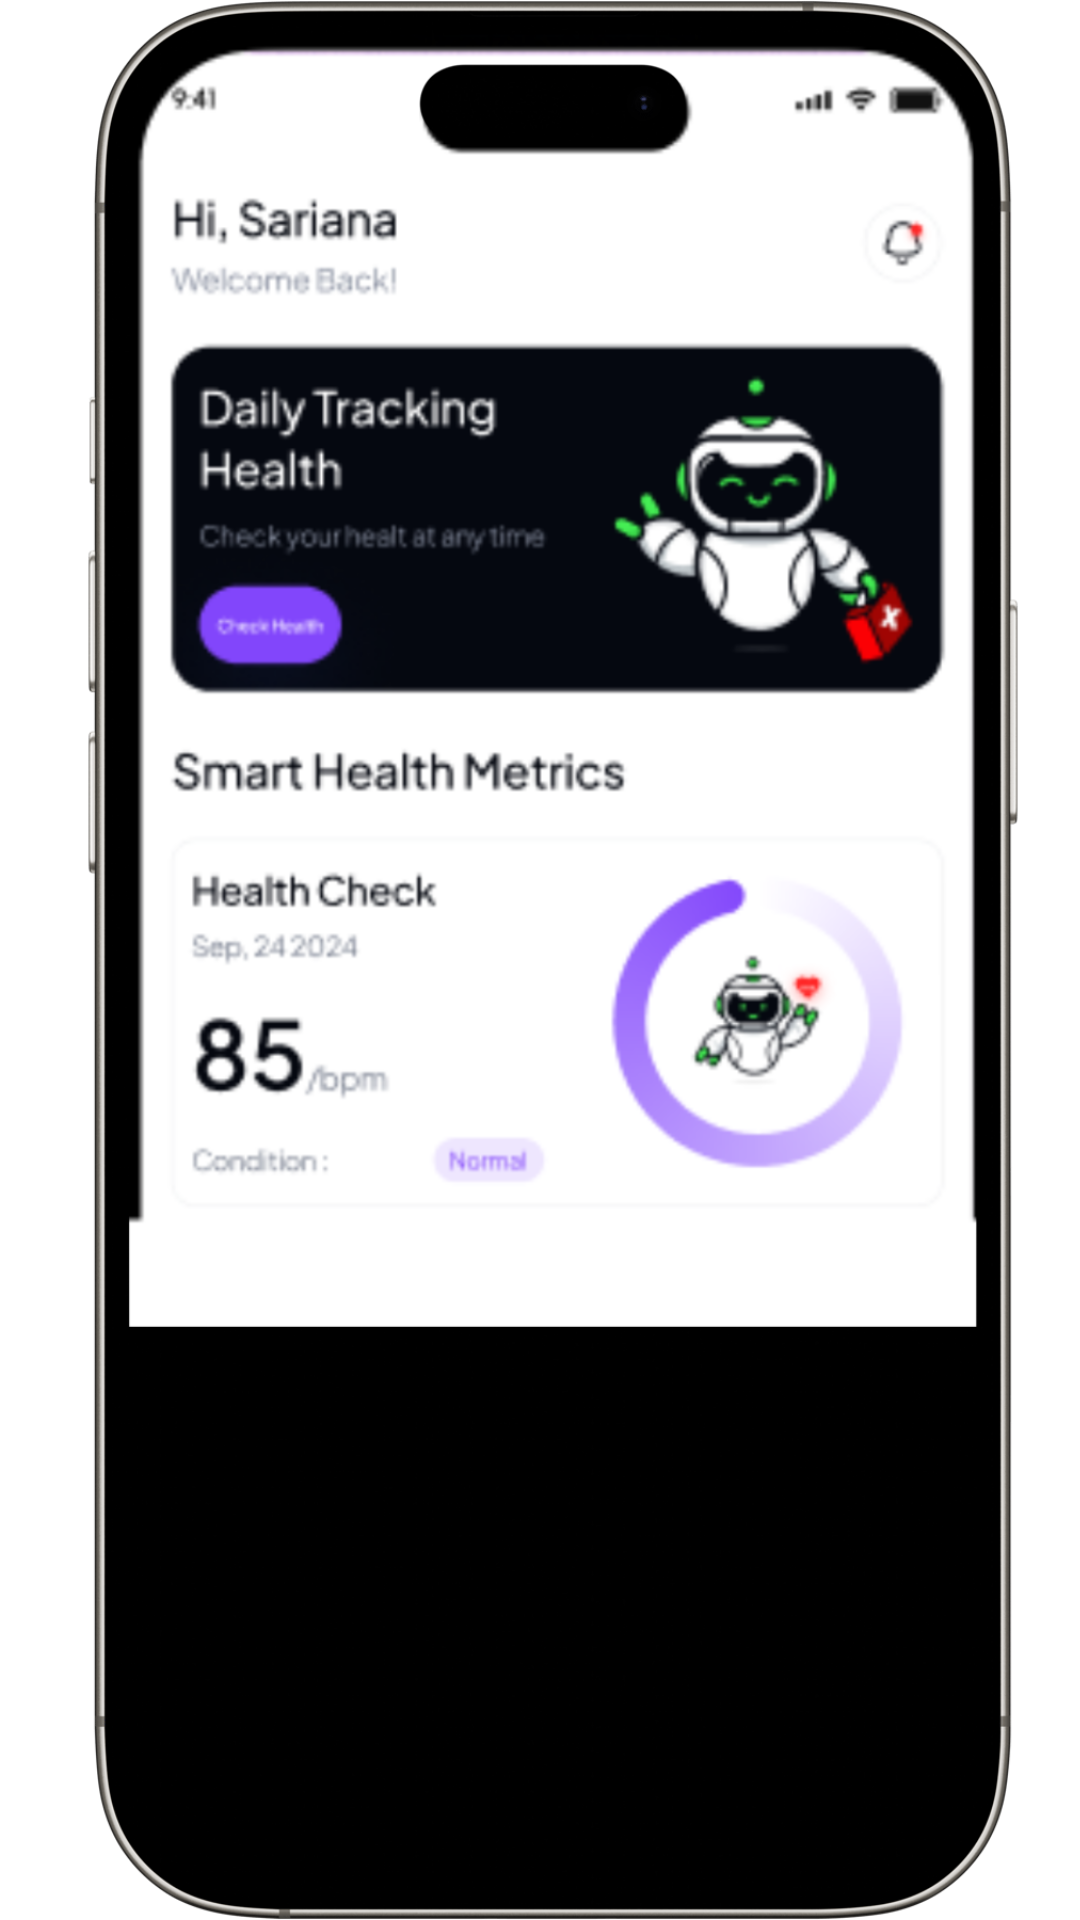
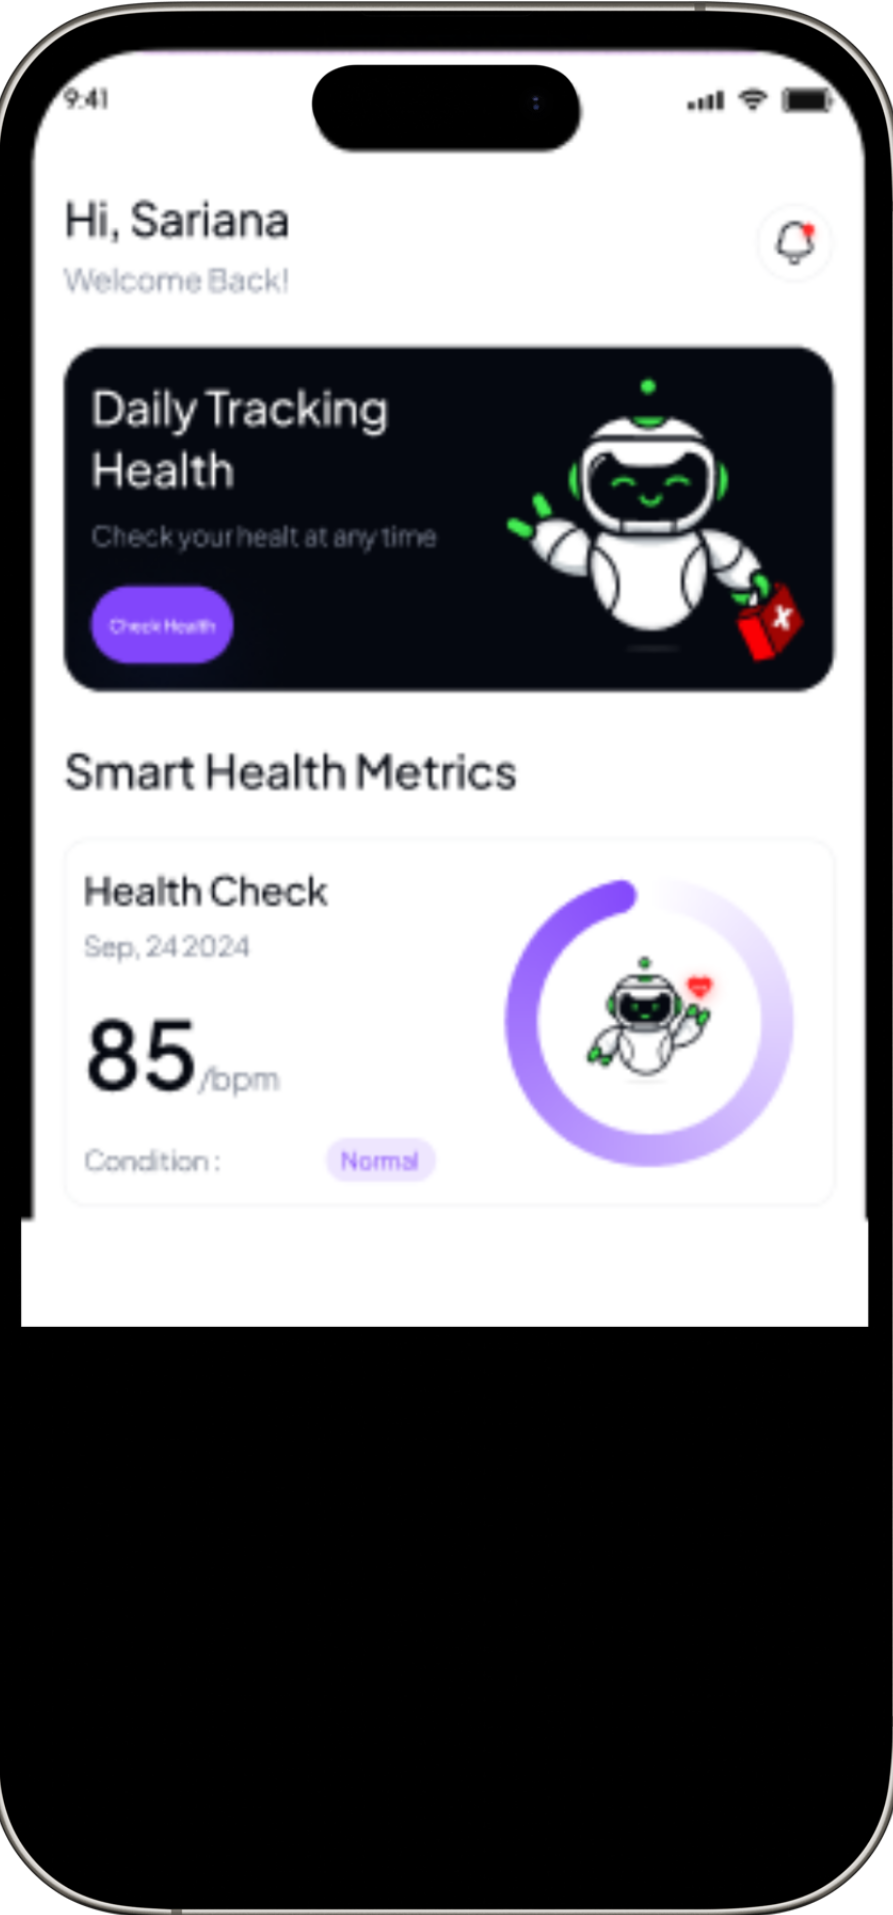
Added an image in Assets  minor changes in Hero.jsx

diff --git a/src/components/Hero.jsx b/src/components/Hero.jsx
@@ -52,7 +52,7 @@ const Hero = () => {
       <img
         src={img1} // Use the image path directly
         alt="HealthDoc App Interface"
-        className="relative z-10"
+        className="relative z-10 rounded-[45px]"
         style={{ height: '550px', width: '450px' }} // Resizing via inline styles
       />
    
